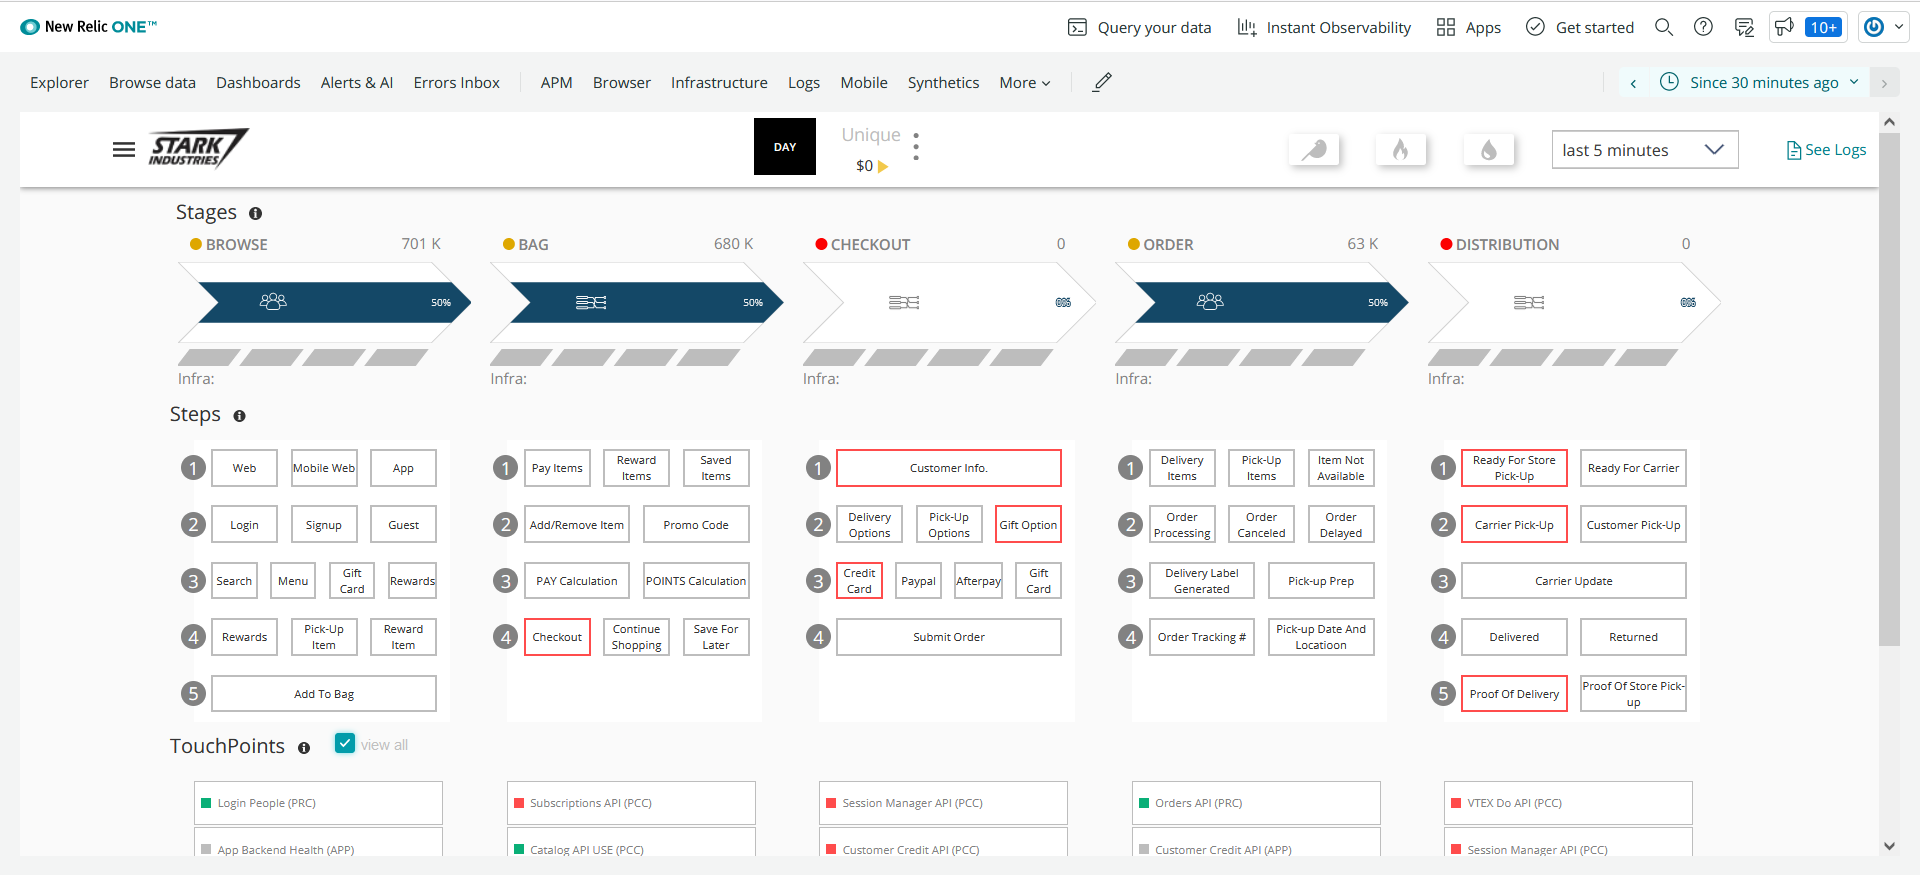
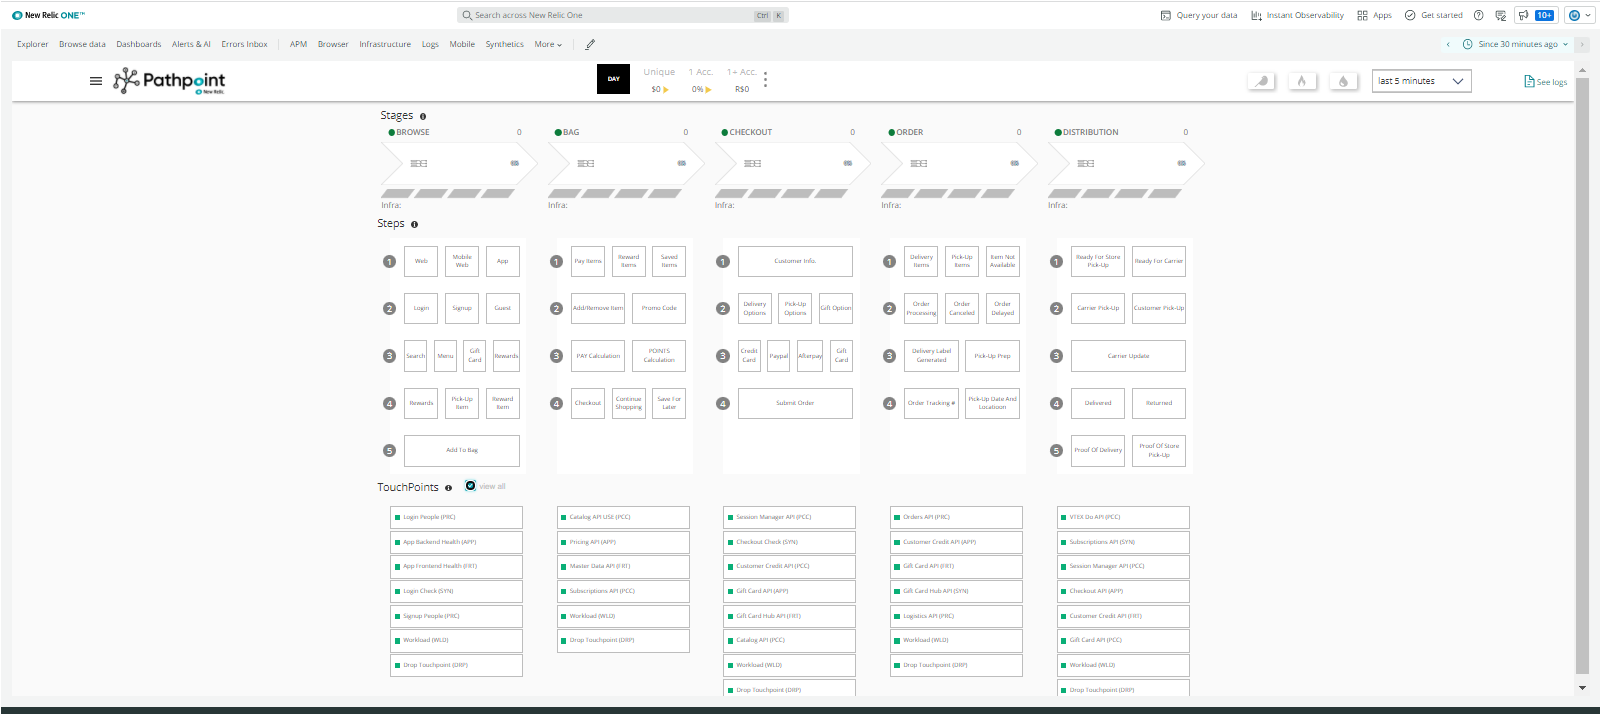
412

diff --git a/docs/user_manual/v1.5.5/README.md b/docs/user_manual/v1.5.5/README.md
@@ -1,4 +1,4 @@
-![cambiar](screenshots/pathpoint_logo.png)           
+   ![cambiar](screenshots/pathpoint_logo.png)           
            
                    
 
@@ -86,7 +86,7 @@ On the following graphic, you can see that this particular Pathpoint has five st
 Additionally if the Stage turns blue, like on the example above, this represents congestiong on the Stage, and if the color of the stage turns white, it means is free of congestion.
 
 
-![Image](screenshots/stages4.png)
+![Image](screenshots/stage5.png)
 
 Please note that under a single Stage you should only count either persons (PRC Touchpoint) or processes (PCC Touchpoint). On the graphic above you can see the symbols for the two types of Stages;  
 
